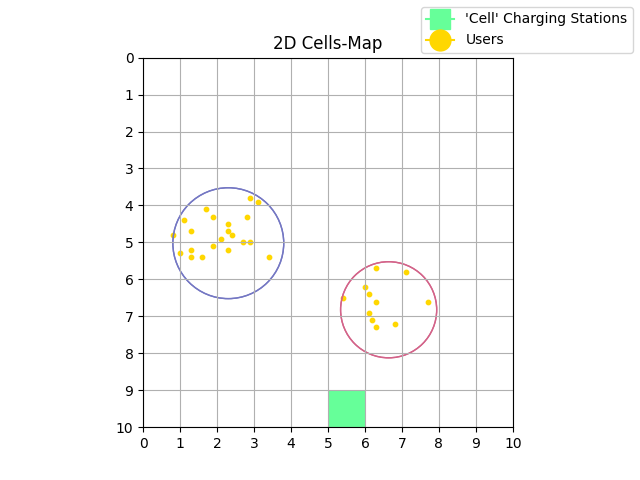
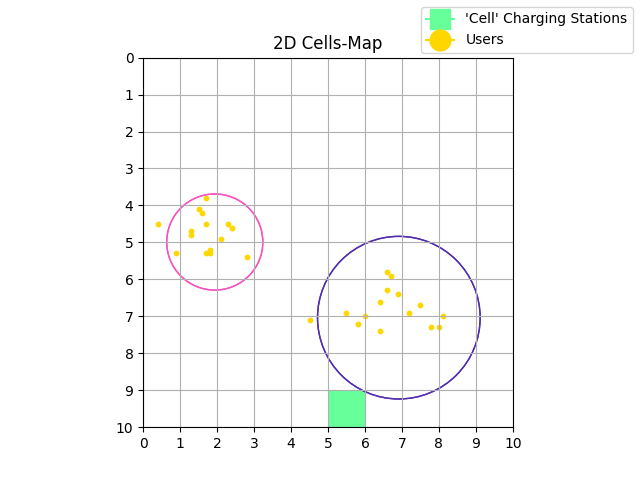
Update

diff --git a/scenario_objects.py b/scenario_objects.py
@@ -1028,7 +1028,7 @@ if __name__ == '__main__':
 
     us = User
     centroids = us.centroids_user_cluster_generation(CENTROIDS_MIN_MAX_COORDS, FIXED_CLUSTERS_NUM) # --> You can change these arguments to get clusters spread out in a different way
-    users_clusters, users_xy = us.spread_users_around_clusters(centroids, 1, 1,10, 30) # --> # --> You can change these arguments to get users spread out in a different way among clusters; you can change also the MIN and MAX users number per cluster
+    users_clusters, users_xy = us.spread_users_around_clusters(centroids, 1, 1,15, 15) # --> # --> You can change these arguments to get users spread out in a different way among clusters; you can change also the MIN and MAX users number per cluster
     occurrences = [users_xy.count(user) for user in users_xy]
     users_points_heights = us.users_heights(points_matrix, users_xy)
     n_users = len(users_xy)

diff --git a/my_utils.py b/my_utils.py
@@ -11,8 +11,8 @@ def hex_to_rgb(hex):
      return tuple(rgb_percentage)
 
 # LEARNING SELECTION:
-Q_LEARNING = True
-SARSA = False
+Q_LEARNING = False
+SARSA = True
 
 HOSP_SCENARIO = False
 
